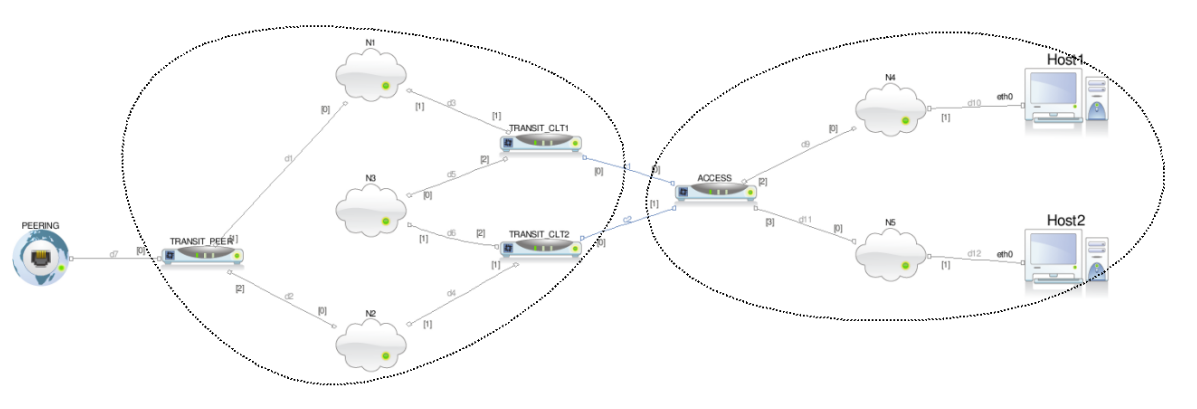
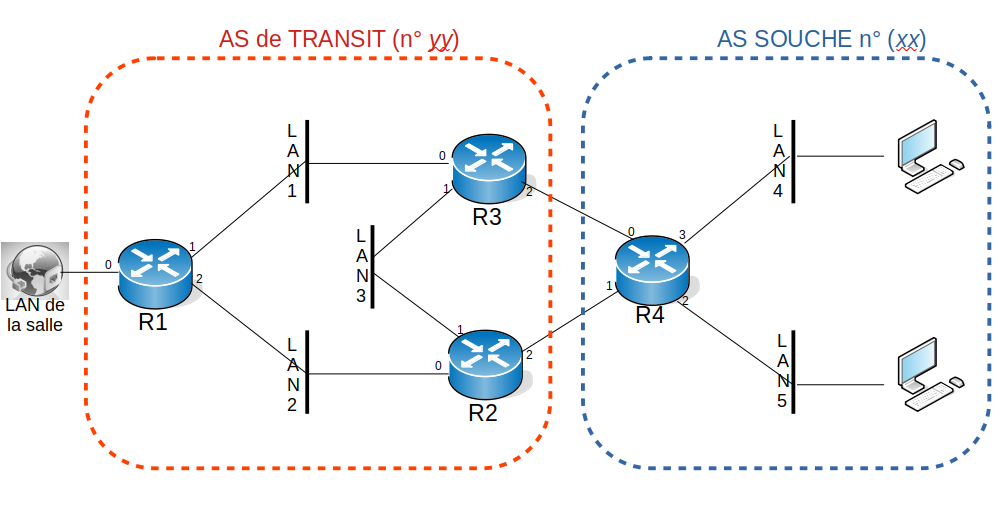
TP BGP

diff --git a/Networking/NetworkSafety/TP_BGP.md b/Networking/NetworkSafety/TP_BGP.md
@@ -7,199 +7,126 @@
 
 ## Présentation du TP
 
-Ce TP a pour but d'illustrer le fonctionnement de BGP dans un cas simple mais néanmoins réaliste. Afin de créer un topologie intéressante et de permettre à chacun de manipuler et d’obtenir la maitrise de la configuration du protocole, nous avons fait le choix d’utiliser des machines virtuelles pour ce TP. Nous utiliserons donc comme pour le TP sur OSPF l'émulateur Pynetem. 
+Ce TP a pour but d'illustrer le fonctionnement de BGP dans un cas simple mais néanmoins réaliste. Afin de créer un topologie intéressante et de permettre à chacun de manipuler et d'obtenir la maitrise de la configuration du protocole, nous avons fait le choix d'utiliser des machines virtuelles pour ce TP. Nous utiliserons donc comme pour le TP sur OSPF l'émulateur Pynetem. 
 
 ### 1.1 Topologie
 
-Chaque binôme administrera deux AS, l’un sera un AS de transit offrant une connectivité à
-l’autre AS, qui sera donc un AS souche. La figure 1 montre la topologie du réseau dont vous serez
-les administrateurs. Les deux AS sont délimités par les marques en pointillé. La prise Ethernet
-représenté à gauche de la figure représente la liaison entre l’AS de transit et un point de peering.
-Dans les faits, cette prise sera relié à un VLAN du réseau réel de la salle et vous permettra de
-vous interconnecter avec les AS des autres binômes.
+Chaque binôme administrera deux AS, l'un sera un AS de transit offrant une connectivité à l'autre AS, qui sera donc un AS souche. La figure ci-dessous présente la topologie du réseau dont vous serez les administrateurs. Les deux AS sont délimités par les pointillés. La prise "LAN de la salle" représentée à gauche de la figure symbolise la liaison entre l'AS de transit et un point de peering. Dans les faits, cette prise sera reliée à un VLAN du réseau réel de la salle et vous permettra de vous interconnecter avec les AS des autres binômes.
 
 ```
 Figure1: Topologie du réseau
 ```
 ## 2 Mise en place
 
-Avant de commencer à manipuler les routeurs, vous devrez mettre en place l’environnement
-d’émulation puis réaliser un plan d’adressage et configurerMarionneten conséquence.
+Avant de commencer la configuration des routeurs, vous devrez mettre en place l’environnement d'émulation puis réaliser un plan d'adressage et configurer la topologie Pynetem disponible ici.
 
 ### 2.2 Adressage
 
-Pour réaliser ce TP, il vous faudra définir un plan d’adressage pour vos AS. Afin de synchroni-
-ser tout le monde et d’éviter d’avoir plusieurs adressages qui se chevauchent, nous simulerons une
-autorité de distribution des numéros et adresses (similaire à l’IANA et au différents RIRs... en
-plus petit et avec moins de paperasse). Vous devrez donc aller faire enregistrer vos numéros d’AS
-et vos préfixes d’adresses auprès des professeurs AVANT de définir le plan d’adressage détaillé.
-Chaque binôme disposera d’un préfixe de longueur 8 pour son réseau de transit et d’un préfixe
-de longueur 16 pour son réseau client. Utilisez les nombreuses adresses à votre disposition afin
-de simplifier la tâche de définition du plan d’adressage (en d’autres termes, inutile de créer des
-sous-réseaux dimensionnés au plus juste, utilisez des préfixes de longueur multiple de 8).
-Une fois les préfixes d’adresse et vos numéros d’AS enregistrés, réalisez un plan d’adressage
-complet de votre réseau.
+Pour réaliser ce TP, il vous faudra définir un plan d’adressage pour vos AS. Afin de synchroniser tout le monde et éviter d'avoir plusieurs adressages qui se chevauchent, nous simulerons une autorité de distribution de numéros et adresses (similaire à l'IANA et aux différents RIRs... mais en plus petit et avec moins de contraintes administratives !). Vous devrez donc aller faire enregistrer vos numéros d'AS et vos préfixes d’adresses auprès des professeurs AVANT de définir le plan d’adressage détaillé.
 
-Dessinez (ou copiez) la topologie de votre réseau avec les informations d’adressage, les numéros
-d’AS, ainsi que les numéros d’interfaces des machines.
+Chaque binôme disposera d'un préfixe de longueur 8 pour son réseau de transit et d'un préfixe de longueur 16 pour son réseau client. Utilisez les nombreuses adresses à votre disposition afin de simplifier la tâche de définition du plan d'adressage (en d'autres termes, inutile de créer des sous-réseaux dimensionnés au plus juste, utilisez des préfixes de longueur multiple de 8).
 
-```
-Point de vérification 1
-```
-Configurez ensuite les adresses de vos machines dans l’ongletinterfacesdeMarionnet. Pensez
-à renseigner les adresses de broadcast et les netmask.
-Dans le cas des routeursTRANSIT_PEERqui seront reliés les uns aux autres via in vlan du
-réseau réel,Marionnet leur attribue une adresse MAC de façon automatique. Cependant cette
+Une fois les préfixes d'adresses et vos numéros d'AS enregistrés, réalisez un plan d'adressage complet de votre réseau.
 
+Reproduisez la topologie de votre réseau avec les informations d'adressage, les numéros d'AS, ainsi que les numéros d'interfaces des machines.
 
-adresse sera la même pour tous les routeurs, ce qui pose problème. Il vous faudra donc modifier
-votre adresse de façon à ce qu’elle soit unique sur ce réseau de peering.
+<font color=blue><b>Point de vérification 1</b></font>
+
+Configurez ensuite les adresses de vos machines. Dans le cas des routeurs TRANSIT_PEER qui seront reliés les uns aux autres via l'intreface de bridge sur R1 (i.e. LAN vers la salle), utilisez l'adresse IP suivante `54.32.10.P/24` ou `P` est votre numéro de poste, afin que votre adresse soit unique sur ce réseau de peering.
 
 ### 2.3 Lancement des machines
 
-Vous pouvez maintenant démarrer toutes vos machines en cliquant surDémarrer toutdans
-Marionnet. Pensez à laisser le temps à tout les systèmes de démarrer avant de continuer.
+Vous pouvez maintenant démarrer toutes vos machines en faisant un `save` puis `reload` dans l'interface Pynetem. Pensez à laisser le temps au système de démarrer avant de continuer.
 
 ## 3 Manipulations
 
-Une fois l’environnement d’émulation configuré et les machines lancées, vous pourrez interagir
-avec chacune au moyen d’une connexionssh. Si vous devez relancer une machine utilisez les
-options de démarrage et d’arrêt deMarionnet(demandez à un professeur).
-Les manipulations se dérouleront en plusieurs parties. Le but final étant d’avoir une inter-
-connexion entre tous les binômes reliés à un point de peering, vous veillerez à vérifier l’état
-d’avancement des autre binômes reliés au même réseau depeeringque vous, et à vous synchro-
-niser entre chaque étape afin que tout le monde puisse avancer au même rythme.
+Les manipulations se dérouleront en plusieurs parties. Le but final étant d'avoir une interconnexion entre tous les binômes reliés à un point de peering. 
 
 ### 3.1 Configuration de l’AS de transit
 
-Vous commencerez par configurer BGP dans votre AS de transit. Pour cela, lancez l’inter-
-préteur de commandes deQuagga:vtysh.
-Une fois dans ce shell, vous pouvez utiliser la plupart des commandesCISCO(show run,
-show ip route,... ). Vous disposerez aussi de l’aide en ligne (?) et de la complétion automatique
-(touche<tab>).
-Commencez par attribuer un identifiant unique à chacun de vos routeurs (en prenant une de
-leurs adresses IP) avec la commanderouter-id. Pensez à passer en mode configuration avant
-(configure terminal).
-Vous pourrez maintenant passer à la configuration de BGP. Les commandes utiles sont :
-—router bgp <numero d’as du routeur local>– Passer en mode configuration de BGP
-—neighbor <adresse ip du voisin> remote-as <numéro d’as du voisin>– Déclarer
-un voisin BGP du routeur, à répéter pour chaque voisin
-—network <préfixe à annoncer en notation CIDR>– Déclarer un réseau via BGP
-Configurez vos routeurs de façon à ce qu’ils connaissent leurs voisins et qu’ils annoncent
-leur réseau (le /8 de votre AS de transit). Chaque routeur du réseau de transit sera voisin
-de tous les routeurs auxquels il est directement rattaché (y compris en interne). Le routeur
-TRANSIT_PEER sera notamment voisin des deux routeurs TRANSIT_CLT et des routeurs
-TRANSIT_PEER des AS voisins.
+Vous commencerez par configurer BGP dans votre AS de transit. Pour cela, attribuez un identifiant unique à chacun de vos routeurs en définissant une adresse de loopback et en utilisant la commande `router-id` comme vu lors du TP OSPF.
 
-3.1.1 Vérification de la configuration BGP
+Vous pouvez maintenant passer à la configuration de BGP. Les commandes utiles sont :
 
-Afin de vérifier que la configuration est correcte, vous utiliserez les commandesshow ip
-route,show ip bgp,show ip bgp neighborsetshow ip bgp <préfixe CIDR>(ces commandes
-sont disponibles hors du mode config). Vous répondrez ensuite aux questions suivantes.
+* `router bgp <numero d’as du routeur local>` permet de passer en mode configuration de BGP;
+* `neighbor <adresse ip du voisin> remote-as <numéro d’as du voisin>` permet de déclarer un voisin BGP du routeur, à répéter pour chaque voisin;
+* `network <préfixe à annoncer en notation CIDR>` permet de déclarer un réseau via BGP.
+
+Configurez vos routeurs de façon à ce qu'ils connaissent leurs voisins et qu'ils annoncent leur réseau (le /8 de votre AS de transit). Chaque routeur du réseau de transit sera voisin de tous les routeurs auxquels il est directement rattaché (y compris en interne). Le routeur TRANSIT_PEER sera notamment voisin des deux routeurs TRANSIT_CLT et des routeurs TRANSIT_PEER des AS voisins.
+
+#### 3.1.1 Vérification de la configuration BGP
+
+Afin de vérifier que la configuration est correcte, vous utiliserez les commandes `show ip route`, `show ip bgp`, `show ip bgp neighbors` et `show ip bgp <préfixe CIDR>`.  Lisez la page très bien faite du site CISCO [Troubleshooting When BGP Routes Are Not Advertised](https://www.cisco.com/c/en/us/support/docs/ip/border-gateway-protocol-bgp/19345-bgp-noad.html) qui vous guide pas à pas dans plusieurs processus de résolution de problèmes.
+
+Ensuite répondrez ensuite aux questions suivantes :
 
 
-Quels sont les prefixes BGP annoncés par les autres routeurs au routeur TRANSIT_PEER?
+Quels sont les prefixes BGP annoncés par les autres routeurs au routeur TRANSIT_PEER ?
 
-```
-Point de vérification 2
-```
-Pour un préfixe annoncé par plusieurs voisins, expliquez le choix fait par BGP pour sélectionner
-la route à placer dans la Loc-RIB.
+<font color=blue><b>Point de vérification 2</b></font>
 
-```
-Point de vérification 3
-```
-Notez vous un problème dans la diffusion des préfixes vers les routeurs TRANSIT_CLT?
-Décrivez le et expliquez sa cause.
+Pour un préfixe annoncé par plusieurs voisins, expliquez le choix fait par BGP pour sélectionner la route à placer dans la Loc-RIB.
 
-```
-Point de vérification 4
-```
+<font color=blue><b>Point de vérification 3</b></font>
+
+Notez vous un problème dans la diffusion des préfixes vers les routeurs TRANSIT_CLT ? Décrivez-le et expliquez sa cause.
+
+<font color=blue><b>Point de vérification 4</b></font>
+
 ### 3.2 Distribution des routes par un IGP
 
-Afin de résoudre le problème précédent, nous allons déployer le protocole OSPF dans le réseau
-de transit. Les routeurs utiliseront OSPF pour annoncer les routes directement rattachées sur
-chacun des réseaux internes.
-La configuration d’OSPF se fera en recopiant et modifiant les lignes suivantes (vous rempla-
-cerez les réseaux par les réseaux internes rattachés à votre routeur) :
-
-router ospf
-redistribute connected
-network 153.0.1.0/24 area 0
-network 153.0.3.0/24 area 0
+Afin de résoudre le problème précédent, nous allons déployer le protocole OSPF dans le réseau de transit. Les routeurs utiliseront OSPF pour annoncer les routes directement rattachées sur chacun des réseaux internes.
+La configuration d'OSPF dans les routeurs de l'AS de transit se fera en recopiant et modifiant suivant votre topologie les lignes suivantes (i.e. remplacerez les réseaux par les réseaux internes rattachés à votre routeur) :
 
 ```
-Configuration 1: Activation d’OSPF dans les routeurs de l’AS de transit
+ router ospf
+ redistribute connected
+ network x.x.x.x/x area 0
+ network x.x.x.x/x area 0
 ```
+
 Vérifiez à nouveau la configuration de BGP sur tous les routeurs. Le problème est il résolu?
 
-```
-Point de vérification 5
-```
+<font color=blue><b>Point de vérification 5</b></font>
+
 ### 3.3 Configuration de l’AS client
 
-Réalisez maintenant la configuration BGP du routeur de l’AS client avec les mêmes com-
-mandes que pour les routeurs de l’AS de transit.
-Vous penserez à donner un identifiant unique à votre routeur.
+Réalisez maintenant la configuration BGP du routeur de l’AS client avec les mêmes commandes que pour les routeurs de l'AS de transit. Pensez à donner un identifiant unique à votre routeur.
 
-Est il nécessaire d’activer OSPF dans cet AS? Pourquoi?
+Est il nécessaire d'activer OSPF dans cet AS? Pourquoi?
 
-```
-Point de vérification 6
-```
-De quelles pannes BGP protège t’il l’AS client?
+<font color=blue><b>Point de vérification 6</b></font>
 
-```
-Point de vérification 7
-```
-Testez maintenant la connectivité de bout en bout avec les commandespingettraceroute
-lancées depuis les machines terminales.
+De quelles pannes BGP protège-t-il l'AS client?
 
+<font color=blue><b>Point de vérification 7</b></font>
 
-Cela fonctionne t’il? Pourquoi?
+Testez maintenant la connectivité de bout en bout avec les commandes `ping` et `traceroute` executées depuis les machines terminales.
 
-```
-Point de vérification 8
-```
-```
+Cela fonctionne-t-il ? Pourquoi ?
+
+<font color=blue><b>Point de vérification 8</b></font>
+
 Résolvez éventuellement le problème puis vérifiez le bon fonctionnement.
-```
+
 ### 3.4 Filtrage des annonces de routes BGP (optionnel)
 
-Nous allons maintenant voir les mécanismes de filtrage d’annonce des routes offert par BGP.
-Cette fonctionnalité est très puissante et nécessaire dans l’Internet tant pour des raisons de
-performance que de sécurité.
-Dans ce TP nous ne verront qu’une partie de cette fonctionnalités, notez toutefois que l’on
-peut filtrer les routes annoncées par leur préfixe en entrée comme en sortie et que les possibilités
-de cet outil sont dictées par l’implémentation de BGP utilisée.
+Nous allons maintenant voir les mécanismes de filtrage d'annonce des routes offerts par BGP. Cette fonctionnalité est très puissante et nécessaire dans l'Internet tant pour des raisons de performance que de sécurité. Dans ce TP, nous ne verrons qu'une partie de cette fonctionnalité, notez toutefois que l'on peut filtrer les routes annoncées par leur préfixe en entrée comme en sortie et que les possibilités de cet outil sont dictées par l'implémentation de BGP utilisée.
 
-Notez vous sur les routeurs TRANSIT_PEER des routes annoncées qui ne sont issues de votre
-réseau?
-Peuvent elles poser problème?
+Notez-vous sur les routeurs TRANSIT_PEER des routes annoncées qui ne sont issues de votre réseau ? Peuvent-elles poser problème ?
 
-```
-Point de vérification 9
-```
-Nous allons filtrer les routes annoncées par le routeur TRANSIT_PEER afin de n’annoncer
-que les réseaux de l’AS de transit et de son client. Pour cela il vous faudra définir un filtre de
-préfixe puis l’associer aux annonces vers les voisins externes à l’AS.
-La définition d’un filtre de préfixe se fait grâce à la commandeip prefix-list. Chaque
-nouvelle règle ajouté à un même filtre sera exécuté dans l’ordre jusqu’à déclenchement d’un
-règle.
-Vous autoriserez donc d’abord l’annonce de vos préfixes (2 règles) puis vous interdirez toutes
-les autres annonces.
-Pour associer ce filtre aux annonces faites à vos voisins, dans la configuration du rou-
-teur BGP, utilisez la commande neighbor <adresse IP du voisin> prefix-list <nom du
-filtre> out.
+<font color=blue><b>Point de vérification 9</b></font>
 
-Notez et expliquez les commandes de définition du filtre de préfixe.
-Que signifieoutdans la ligne de commande d’association du filtre avec le voisin?
+Nous allons filtrer les routes annoncées par le routeur TRANSIT_PEER afin d'annoncer unqiuement les réseaux de l'AS de transit et de son client. Pour cela il vous faudra définir un filtre de préfixe puis l'associer aux annonces vers les voisins externes à l'AS. 
 
-```
-Point de vérification 10
-```
+La définition d'un filtre de préfixe se fait grâce à la commande `ip prefix-list`. Chaque nouvelle règle ajoutée à un même filtre sera exécutée dans l'ordre jusqu'au déclenchement d'une règle. 
+
+Vous autoriserez donc tout d'abord l'annonce de vos préfixes (2 règles) puis vous interdirez toutes les autres annonces. Pour associer ce filtre aux annonces faites à vos voisins, dans la configuration du routeur BGP, utilisez la commande neighbor `<adresse IP du voisin> prefix-list <nom du filtre> out`.
+
+Notez et expliquez les commandes de définition du filtre de préfixe. Que signifie `out` dans la ligne de commande d'association du filtre avec le voisin ?
+
+<font color=blue><b>Point de vérification 10</b></font>
+
 Vérifiez avec les AS voisins le bon fonctionnement du filtre.
-Point de vérification 11
 
-
-
+<font color=blue><b>Point de vérification 11</b></font>
